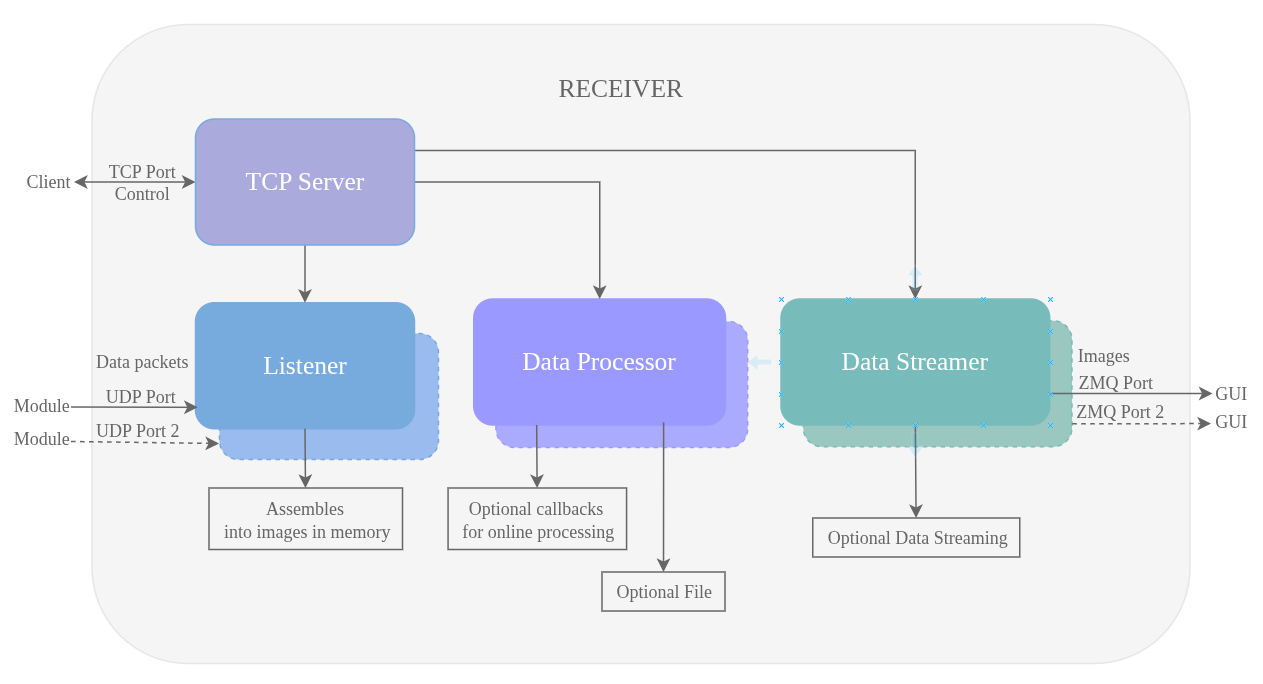
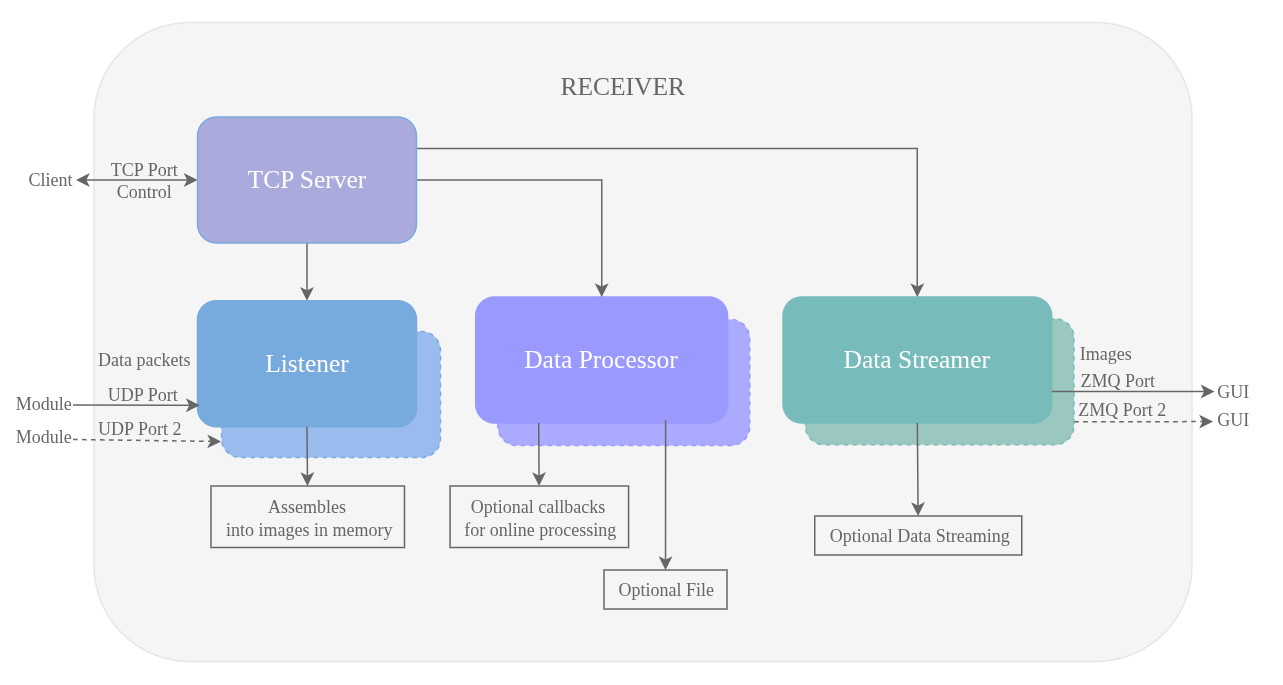
review fixes

diff --git a/docs/src/softwarearchitecture.rst b/docs/src/softwarearchitecture.rst
@@ -41,7 +41,7 @@ A single client can configure and control individual modules and receivers, or m
 
 It can also listen to multiple ZMQ sockets from the Receiver(s) or the external processing chain to assemble the full image for GUI display or Client call backs.
 
-Next, each component in detail is examined in detail.
+Next, each component is examined in detail.
 
 Module
 -------
